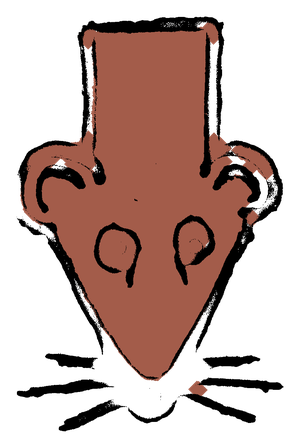
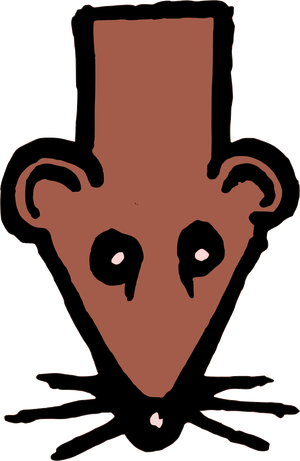
Replace the more-arrow mouse with the artist's proper vector source
The user supplied the actual Inkscape SVG of the mouse drawing (same
character as cursor-arrow.png, but a clean, high-resolution vector
redraw) - already filled in the exact download-arrow terracotta
(#a35c4a) with black linework, and already in the correct downward
orientation (no rotation needed, unlike the photo-derived version).
Rendered via headless Chrome, background converted to true alpha
transparency, cropped tight. Source SVG kept outside the deployed
Site folder for reference.

diff --git a/comodoro-ro.html b/comodoro-ro.html
@@ -33,7 +33,7 @@
     <img src="comodoro-art-top.jpg" alt="Drawing: a sun-like figure with radiating lines, split by a dark red arc" class="comodoro-art">
     <p>Dacă Comodoro Süleyman nu este nimeni, reciproca nu este neapărat adevărată. Comodoro Süleyman este un marinar fără barcă. Este mai ales o idee sau un vis. Rămân muzica și desenele...</p>
     <img src="comodoro-art-bottom.jpg" alt="Drawing: a striped figure looking down, with a single drop above its head" class="comodoro-art">
-    <img src="comodoro-more-arrow.png?v=2" alt="" class="comodoro-more-arrow">
+    <img src="comodoro-more-arrow.png?v=3" alt="" class="comodoro-more-arrow">
   </div>
 </div>
 <section class="comodoro-gallery" aria-label="Drawings">

diff --git a/comodoro.html b/comodoro.html
@@ -33,7 +33,7 @@
     <img src="comodoro-art-top.jpg" alt="Drawing: a sun-like figure with radiating lines, split by a dark red arc" class="comodoro-art">
     <p>If Comodoro Süleyman is nobody, the converse isn't necessarily true. Comodoro Süleyman is a sailor without a boat. He's mostly an idea, or a dream. What's left are the music and the drawings...</p>
     <img src="comodoro-art-bottom.jpg" alt="Drawing: a striped figure looking down, with a single drop above its head" class="comodoro-art">
-    <img src="comodoro-more-arrow.png?v=2" alt="" class="comodoro-more-arrow">
+    <img src="comodoro-more-arrow.png?v=3" alt="" class="comodoro-more-arrow">
   </div>
 </div>
 <section class="comodoro-gallery" aria-label="Drawings">

diff --git a/comodoro-fr.html b/comodoro-fr.html
@@ -33,7 +33,7 @@
     <img src="comodoro-art-top.jpg" alt="Drawing: a sun-like figure with radiating lines, split by a dark red arc" class="comodoro-art">
     <p>Si Comodoro Süleyman n'est personne, l'inverse n'est pas forcément vrai. Comodoro Süleyman est un marin sans bateau. C'est surtout une idée ou un rêve. Restent la musique et les dessins...</p>
     <img src="comodoro-art-bottom.jpg" alt="Drawing: a striped figure looking down, with a single drop above its head" class="comodoro-art">
-    <img src="comodoro-more-arrow.png?v=2" alt="" class="comodoro-more-arrow">
+    <img src="comodoro-more-arrow.png?v=3" alt="" class="comodoro-more-arrow">
   </div>
 </div>
 <section class="comodoro-gallery" aria-label="Drawings">

diff --git a/comodoro-es.html b/comodoro-es.html
@@ -33,7 +33,7 @@
     <img src="comodoro-art-top.jpg" alt="Drawing: a sun-like figure with radiating lines, split by a dark red arc" class="comodoro-art">
     <p>Si Comodoro Süleyman no es nadie, lo contrario no es necesariamente cierto. Comodoro Süleyman es un marinero sin barco. Es sobre todo una idea o un sueño. Quedan la música y los dibujos...</p>
     <img src="comodoro-art-bottom.jpg" alt="Drawing: a striped figure looking down, with a single drop above its head" class="comodoro-art">
-    <img src="comodoro-more-arrow.png?v=2" alt="" class="comodoro-more-arrow">
+    <img src="comodoro-more-arrow.png?v=3" alt="" class="comodoro-more-arrow">
   </div>
 </div>
 <section class="comodoro-gallery" aria-label="Drawings">
